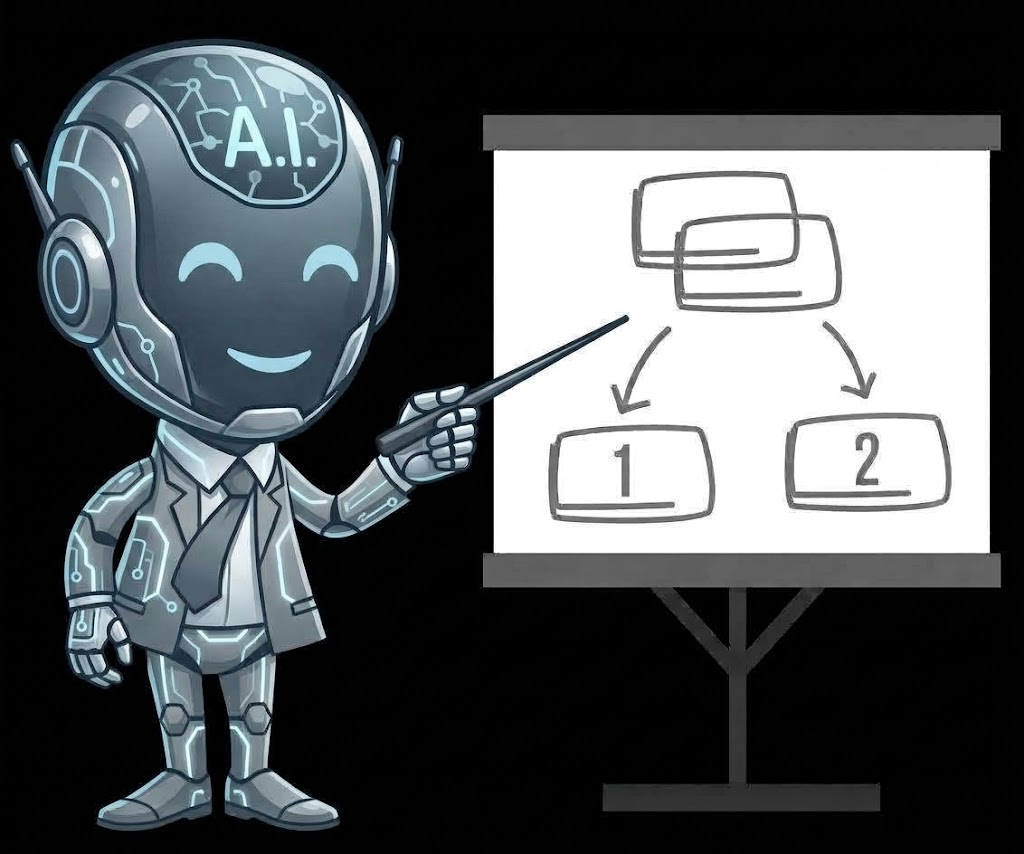
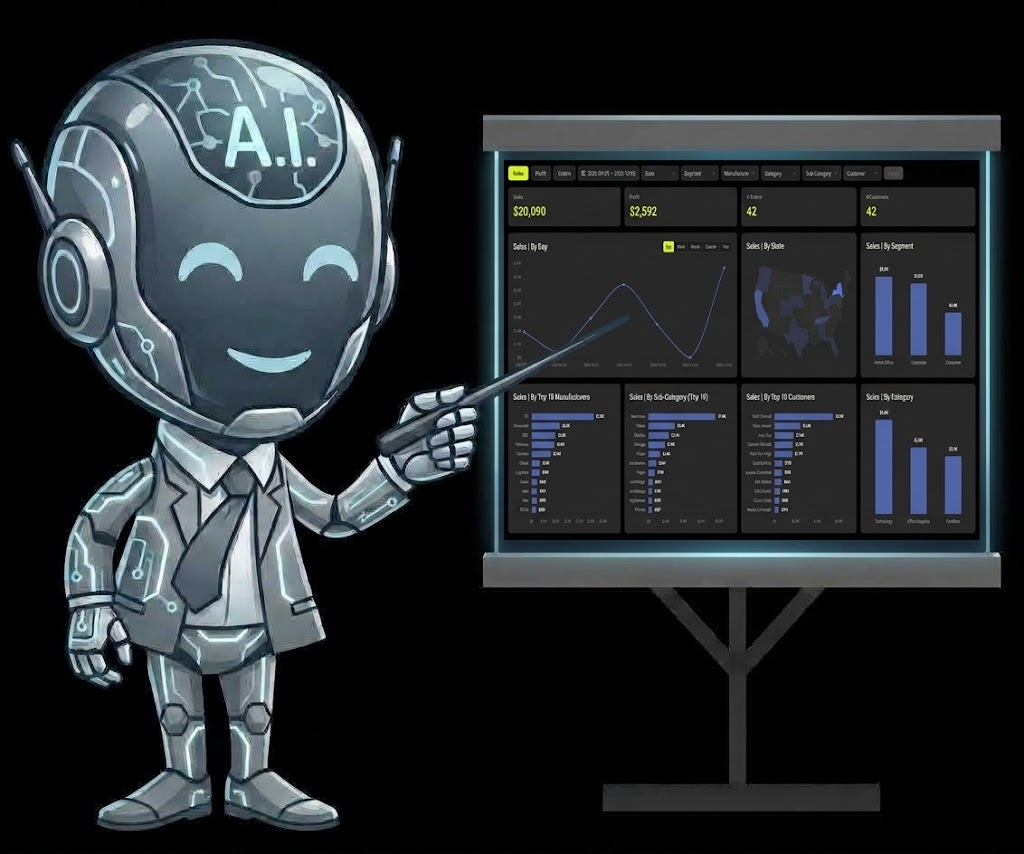
Rework talk slides: merged pairs, practices reveal, bio and thank-you slides
- Merge Analyst/Agent into one side-by-side slide with cost bullets
- Duel slide labels now "The Dashboard" / "The Agent"
- Merge Grounding/Trust/Permissions into one tile slide with strike + handwritten "Our" reveal, staged per topic
- Bio slide: circular photo, title above bullets, new bullets, QR removed
- New thank-you closing slide with LinkedIn QR and handle
- Remove "Best practices - Not Yet" slide; update question and closing highlights

diff --git a/presentation.html b/presentation.html
@@ -21,7 +21,7 @@
   spoken, not written.
 -->
 <link rel="preconnect" href="https://fonts.googleapis.com">
-<link href="https://fonts.googleapis.com/css2?family=Inter:wght@400;500;600;700;800&display=swap" rel="stylesheet">
+<link href="https://fonts.googleapis.com/css2?family=Inter:wght@400;500;600;700;800&family=Caveat:wght@700&display=swap" rel="stylesheet">
 <style>
   :root {
     --canvas: #010101;
@@ -93,15 +93,24 @@
     margin-top: 26px; font-size: 20px; font-weight: 400; color: var(--text-secondary);
     max-width: 760px; line-height: 1.55;
   }
-  .slide .bio-row { display: flex; align-items: center; justify-content: center; gap: 32px; width: 100%; max-width: 1100px; }
+  .slide .bio-row { display: flex; align-items: center; justify-content: center; gap: 64px; width: 100%; max-width: 1100px; }
   .slide .bio-list { list-style: disc; padding-left: 28px; text-align: left; margin-top: 26px; color: var(--text-primary); font-size: 26px; max-width: 950px; }
-  .slide .bio-row .qr-img { margin-top: 26px; flex-shrink: 0; }
+  .bio-text { text-align: left; }
+  .bio-text h1 { text-align: left; }
+  .bio-photo { width: 360px; height: 360px; border-radius: 50%; object-fit: cover; border: 7px solid var(--accent); flex-shrink: 0; }
   .slide .bio-list li { margin-top: 10px; }
   .slide .bio-list li::marker { color: var(--accent); }
   .slide .desc b { color: var(--text-primary); font-weight: 600; }
   .slide .desc .accent { color: var(--accent); }
 
   /* LinkedIn QR embed (who-I-am slide) */
+  .thanks-row { display: flex; align-items: center; justify-content: center; gap: 160px; width: 100%; }
+  .slide h1.thanks-title { font-size: 150px; line-height: 1.02; text-align: left; max-width: none; }
+  .thanks-qr-col { display: flex; flex-direction: column; align-items: center; gap: 28px; }
+  .qr-img.thanks-qr { max-height: 320px; margin-top: 0; border-radius: 14px; }
+  .thanks-connect { font-size: 40px; font-weight: 700; display: flex; align-items: center; gap: 16px; }
+  .connect-icon { width: 48px; height: 48px; color: var(--accent); flex-shrink: 0; }
+  .thanks-connect .accent { color: var(--accent); }
   .qr-img { margin-top: 28px; max-height: 110px; width: auto; height: auto; border-radius: 8px; }
 
   .slide .handoff {
@@ -253,6 +262,44 @@
   .duel-slide .duel .duel-center .fit-line.show { transform: translate(-50%, -50%) scale(1); }
   .fit-line .accent { color: var(--accent); }
 
+  /* Analyst + Agent pair slide: bullets in the duel's center column */
+  .duel-name .accent { color: var(--accent); }
+  .pair-slide { padding: 80px 40px; }
+  .pair-slide .duel { max-width: 1300px; grid-template-columns: 440px 340px 440px; padding-top: 72px; }
+  .pair-slide .duel-img-wrap { width: 440px; height: 308px; }
+  .pair-slide .duel-center { height: 308px; }
+  .pair-slide .duel-name { font-size: 44px; margin-bottom: 20px; }
+  .pair-list { list-style: disc; padding-left: 26px; text-align: left; font-size: 30px; font-weight: 600; line-height: 1.3; }
+  .pair-list li { margin: 16px 0; }
+  .pair-list li::marker, .pair-list .accent { color: var(--accent); }
+
+  /* Practices slide: on the click, "Best" gets a yellow strikethrough and a
+     handwritten "Our" is written in above it (left-to-right wipe). Staged by .revealed. */
+  .practices-slide .pr-head { position: relative; margin: 70px 0 70px; }
+  .practices-slide .pr-best { position: relative; display: inline-block; transition: color 0.4s ease 0.1s; }
+  .practices-slide .pr-best::after {
+    content: ''; position: absolute; left: -6px; top: 54%; height: 6px; width: calc(100% + 12px);
+    background: var(--accent); border-radius: 3px; transform: scaleX(0); transform-origin: left center;
+    transition: transform 0.55s cubic-bezier(.6,0,.3,1) 0.1s;
+  }
+  .practices-slide.revealed .pr-best { color: var(--text-disabled); }
+  .practices-slide.revealed .pr-best::after { transform: scaleX(1); }
+  .practices-slide .pr-hand {
+    position: absolute; bottom: 100%; left: 50%; margin-bottom: -4px; white-space: nowrap;
+    font-family: 'Caveat', 'Segoe Script', cursive; font-weight: 700; font-size: 84px; line-height: 1;
+    color: var(--accent); transform: translateX(-50%) rotate(-5deg);
+    clip-path: inset(-10% 100% -10% 0);
+    transition: clip-path 0.8s cubic-bezier(.5,0,.4,1) 0.75s;
+  }
+  .practices-slide.revealed .pr-hand { clip-path: inset(-10% -2% -10% 0); }
+
+  /* ALT must-haves: yellow tiles, dark icons, white labels below */
+  .mh-tiles { display: flex; gap: 110px; justify-content: center; }
+  .mh-tile { display: flex; flex-direction: column; align-items: center; gap: 40px; }
+  .mh-tile-box { width: 200px; height: 200px; border-radius: 38px; background: var(--accent); color: #010101; display: flex; align-items: center; justify-content: center; }
+  .mh-tile-box .mh-icon { width: 110px; height: 110px; color: #010101; }
+  .mh-tile-name { font-size: 40px; font-weight: 800; color: var(--text-primary); }
+
   /* Must-have slides */
   .mh-badge {
     width: 64px; height: 64px; border-radius: 50%; border: 2px solid var(--accent);
@@ -288,7 +335,7 @@
 
 <div class="chrome">
   <span class="talk-name">Dashboards Aren't Dying, They're Getting a Sidekick</span>
-  <span class="counter" id="counter">1 / 19</span>
+  <span class="counter" id="counter"></span>
 </div>
 
 <div class="deck" id="deck">
@@ -307,14 +354,16 @@
 
   <!-- 2b — Opening: who + what -->
   <section class="slide">
-    <h1>Haim <span class="accent">Moscovici</span></h1>
     <div class="bio-row">
+      <img class="bio-photo" src="haim.png" alt="Haim Moscovici">
+      <div class="bio-text">
+      <h1>Haim <span class="accent">Moscovici</span></h1>
       <ul class="desc bio-list">
-        <li><b>Data Analytics Tech Lead</b> · <span class="accent">8+</span> years in Analytics, <span class="accent">6</span> at <span class="accent">WSC Sports</span></li>
-        <li>Lead the new <span class="accent">HTML-based Dashboards</span> framework</li>
-        <li>Lead the <span class="accent">Data Agent</span> infrastructure</li>
+        <li><span class="accent">8</span> years in <span class="accent">Data &amp; Analytics</span></li>
+        <li><span class="accent">6</span> years as a <span class="accent">Tech Lead</span> @ <span class="accent">WSC Sports</span></li>
+        <li>Lead <span class="accent">Data-related AI</span> initiatives</li>
       </ul>
-      <img class="qr-img" src="linkedin-qr.png" alt="LinkedIn QR code">
+      </div>
     </div>
   </section>
 
@@ -341,21 +390,34 @@
     <div class="desc">California | September 2026</div>
   </section>
 
-  <!-- 5b — The Analyst (portrait) -->
-  <section class="slide">
-    <h1>The <span class="accent">Analyst</span></h1>
-    <img class="portrait-img" src="analyst.jpg" alt="The Analyst">
-  </section>
-
-  <!-- 5c — The Agent (portrait) -->
-  <section class="slide">
-    <h1>The <span class="accent">Agent</span></h1>
-    <img class="portrait-img" src="agent.jpg" alt="The Agent">
+  <!-- 5b — The Analyst and The Agent, side by side (merged from two portrait
+       slides), same layout as the duel slide with the two costs in the middle. -->
+  <section class="slide pair-slide">
+    <div class="duel">
+      <div class="duel-side">
+        <div class="duel-portrait">
+          <div class="duel-name">The <span class="accent">Analyst</span></div>
+          <div class="duel-img-wrap"><img src="analyst.jpg" alt="The Analyst"></div>
+        </div>
+      </div>
+      <div class="duel-center">
+        <ul class="pair-list">
+          <li>Breaks the <span class="accent">workflow</span></li>
+          <li>Need to add <span class="accent">context</span> manually</li>
+        </ul>
+      </div>
+      <div class="duel-side">
+        <div class="duel-portrait">
+          <div class="duel-name">The <span class="accent">Agent</span></div>
+          <div class="duel-img-wrap"><img src="agent.jpg" alt="The Agent"></div>
+        </div>
+      </div>
+    </div>
   </section>
 
   <!-- 6 — Beat 3 opener: steelman -->
   <section class="slide">
-    <h1>"Why not just work<br>with <span class="accent">an agent</span>?"</h1>
+    <h1>"Can't the <span class="accent">agent</span><br>just <span class="accent">replace</span> it?"</h1>
   </section>
 
   <!-- 7 — Beat 3: the duel. Dashboard portrait left, Agent portrait right. Each
@@ -367,7 +429,7 @@
     <div class="duel">
       <div class="duel-side dash">
         <div class="duel-portrait">
-          <div class="duel-name">Dashboard</div>
+          <div class="duel-name">The <span class="accent">Dashboard</span></div>
           <div class="duel-img-wrap" data-missing="dashboard.png (add it next to presentation.html)">
             <img src="dashboard.png" alt="The Dashboard" onerror="this.parentElement.classList.add('missing')">
           </div>
@@ -388,7 +450,7 @@
       </div>
       <div class="duel-side agent">
         <div class="duel-portrait">
-          <div class="duel-name">Agent</div>
+          <div class="duel-name">The <span class="accent">Agent</span></div>
           <div class="duel-img-wrap" data-missing="agent2.png (add it next to presentation.html)">
             <img src="agent2.png" alt="The Agent" onerror="this.parentElement.classList.add('missing')">
           </div>
@@ -425,39 +487,56 @@
     <div class="desc">same time frame, same filters</div>
   </section>
 
-  <!-- 10 — Beat 5 frame: "Best Practices" struck through + X'd on the next
-       click/arrow/space, then the desc fades in — see the .reveal-slide JS. -->
-  <section class="slide reveal-slide">
-    <h1><span class="bp-text">Best <span class="accent">practices</span></span><span class="bp-stamp">Not Yet</span></h1>
-    <div class="desc bp-desc">Just <span class="bp-hl">3</span> things you <span class="bp-hl">can't</span> skip.</div>
-  </section>
-
-  <!-- 11 — Must-have: grounding -->
-  <section class="slide">
-    <div class="mh-badge">1</div>
-    <h1>Grounding</h1>
-    <div class="desc">The agent inherits the report's query and definitions.<br>It does not infer its own.</div>
-  </section>
-
-  <!-- 12 — Must-have: trust -->
-  <section class="slide">
-    <div class="mh-badge">2</div>
-    <h1>Trust</h1>
-    <div class="desc">Monitor and evaluate the agent responses</div>
-  </section>
-
-  <!-- 13 — Must-have: permissions -->
-  <section class="slide">
-    <div class="mh-badge">3</div>
-    <h1>Permissions</h1>
-    <div class="desc">Only relevant tables &nbsp;·&nbsp; Row-Level security</div>
+  <!-- 11-13 — The three must-haves merged into one slide: yellow rounded tiles,
+       dark icons, white labels underneath (no descriptions yet). -->
+  <section class="slide reveal-slide multi-reveal practices-slide" data-stage="0" data-max-stage="3">
+    <div class="pr-head">
+      <h1><span class="pr-best">Best<span class="pr-hand">Our</span></span> <span class="accent">practices</span></h1>
+    </div>
+    <div class="mh-tiles">
+      <div class="mh-tile" data-stage="1">
+        <div class="mh-tile-box"><svg class="mh-icon" viewBox="0 0 64 64" aria-hidden="true">
+          <circle cx="32" cy="8" r="5" fill="none" stroke="currentColor" stroke-width="3.5"/>
+          <rect x="29.5" y="12" width="5" height="45" fill="currentColor"/>
+          <rect x="19" y="19" width="26" height="4.5" rx="2.25" fill="currentColor"/>
+          <path d="M8 37C9 50 21 57 32 57S55 50 56 37" fill="none" stroke="currentColor" stroke-width="5" stroke-linecap="round" stroke-linejoin="round"/>
+          <polygon points="4.2,24.5 1.3,39 14.7,35" fill="currentColor" stroke="currentColor" stroke-width="1.5" stroke-linejoin="round"/>
+          <polygon points="59.8,24.5 62.7,39 49.3,35" fill="currentColor" stroke="currentColor" stroke-width="1.5" stroke-linejoin="round"/>
+          <path d="M29.5 12.5C21 20 24 29 33 35S46 47 44 54" fill="none" stroke="var(--accent)" stroke-width="8" stroke-linecap="round"/>
+          <path d="M29.5 12.5C21 20 24 29 33 35S46 47 44 54" fill="none" stroke="currentColor" stroke-width="4" stroke-dasharray="3.2 2.4"/>
+        </svg></div>
+        <div class="mh-tile-name">Grounding</div>
+      </div>
+      <div class="mh-tile" data-stage="2">
+        <div class="mh-tile-box"><svg class="mh-icon" viewBox="0 0 24 24" fill="none" stroke="currentColor" stroke-width="1.8" stroke-linecap="round" stroke-linejoin="round" aria-hidden="true"><path d="M12 3l8 3v6c0 4.5-3.3 8.3-8 9-4.7-.7-8-4.5-8-9V6z"/><path d="M8.5 12l2.5 2.5 4.5-5"/></svg></div>
+        <div class="mh-tile-name">Trust</div>
+      </div>
+      <div class="mh-tile" data-stage="3">
+        <div class="mh-tile-box"><svg class="mh-icon" viewBox="0 0 24 24" fill="none" stroke="currentColor" stroke-width="1.8" stroke-linecap="round" stroke-linejoin="round" aria-hidden="true"><rect x="5" y="11" width="14" height="10" rx="2"/><path d="M8 11V7a4 4 0 0 1 8 0v4"/><circle cx="12" cy="16" r="1.2" fill="currentColor"/></svg></div>
+        <div class="mh-tile-name">Permissions</div>
+      </div>
+    </div>
   </section>
 
 
   <!-- 18 — Closing: the stance (title only, decided 2026-10-04). Spoken script in
        narrative-arc.md, Section 6. -->
   <section class="slide">
-    <h1>Like everything else in the AI era,<br>dashboards must <span class="accent">evolve and adapt</span>.</h1>
+    <h1>Like everything else in the <span class="accent">AI</span> era,<br><span class="accent">dashboards</span> must <span class="accent">evolve</span> and <span class="accent">adapt</span>.</h1>
+  </section>
+
+  <!-- Thank you + connect -->
+  <section class="slide">
+    <div class="thanks-row">
+      <h1 class="thanks-title">Thank<br><span class="accent">You.</span></h1>
+      <div class="thanks-qr-col">
+        <img class="qr-img thanks-qr" src="linkedin-qr.png" alt="LinkedIn QR code">
+        <div class="thanks-connect">
+          <svg class="connect-icon" viewBox="0 0 24 24" fill="none" stroke="currentColor" stroke-width="2" stroke-linecap="round" stroke-linejoin="round" aria-hidden="true"><circle cx="9" cy="8" r="3.6"/><path d="M2.5 20c0-3.6 2.9-6 6.5-6s6.5 2.4 6.5 6"/><path d="M19 8v6M16 11h6"/></svg>
+          <span>in/haim-<span class="accent">moscovici</span></span>
+        </div>
+      </div>
+    </div>
   </section>
 
 </div>
@@ -640,6 +719,7 @@
     nextBtn.classList.toggle('disabled', i === slides.length - 1);
   }
   syncArrows();
+  counter.textContent = (i + 1) + ' / ' + slides.length;
   if (slides[i].classList.contains('dashboard-slide')) fitDashboard();
 </script>
 </body>
